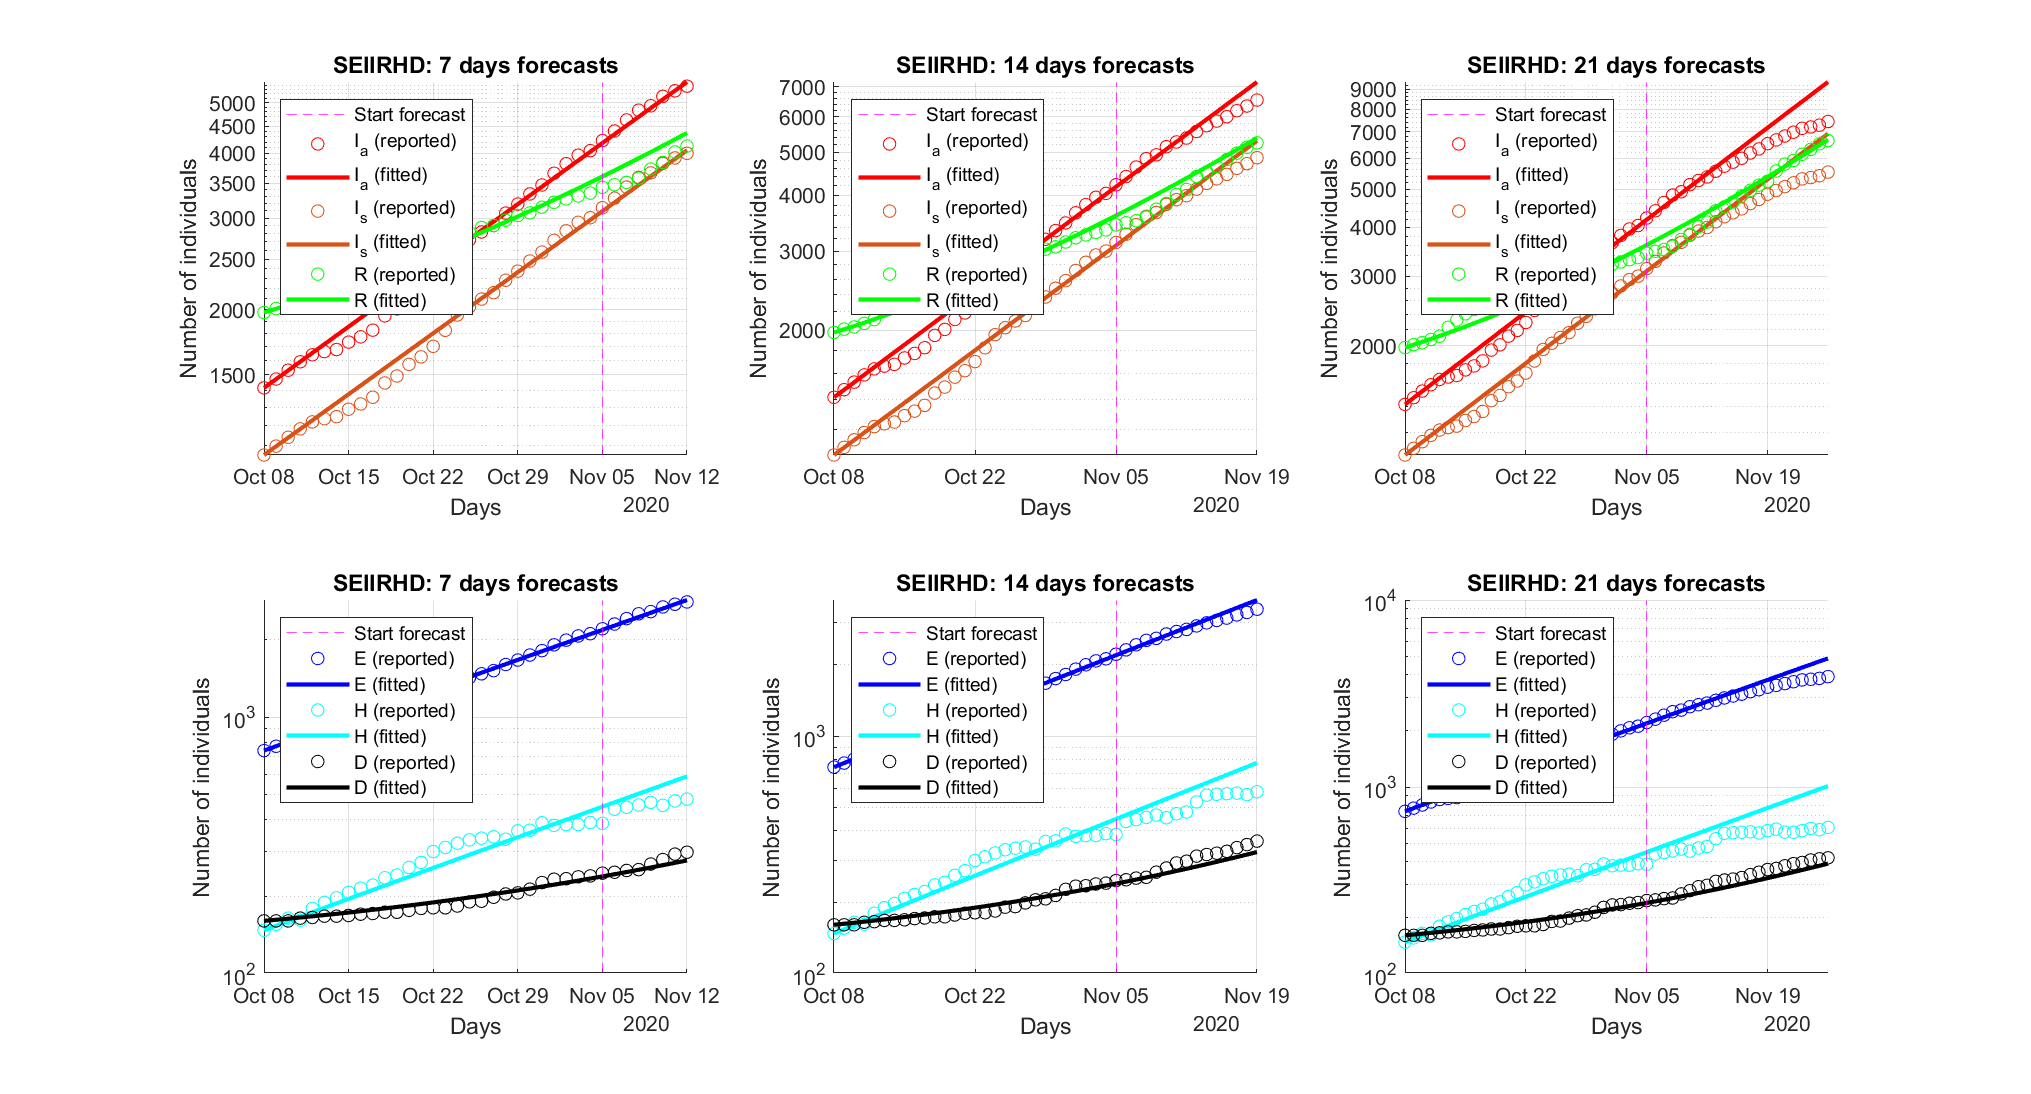
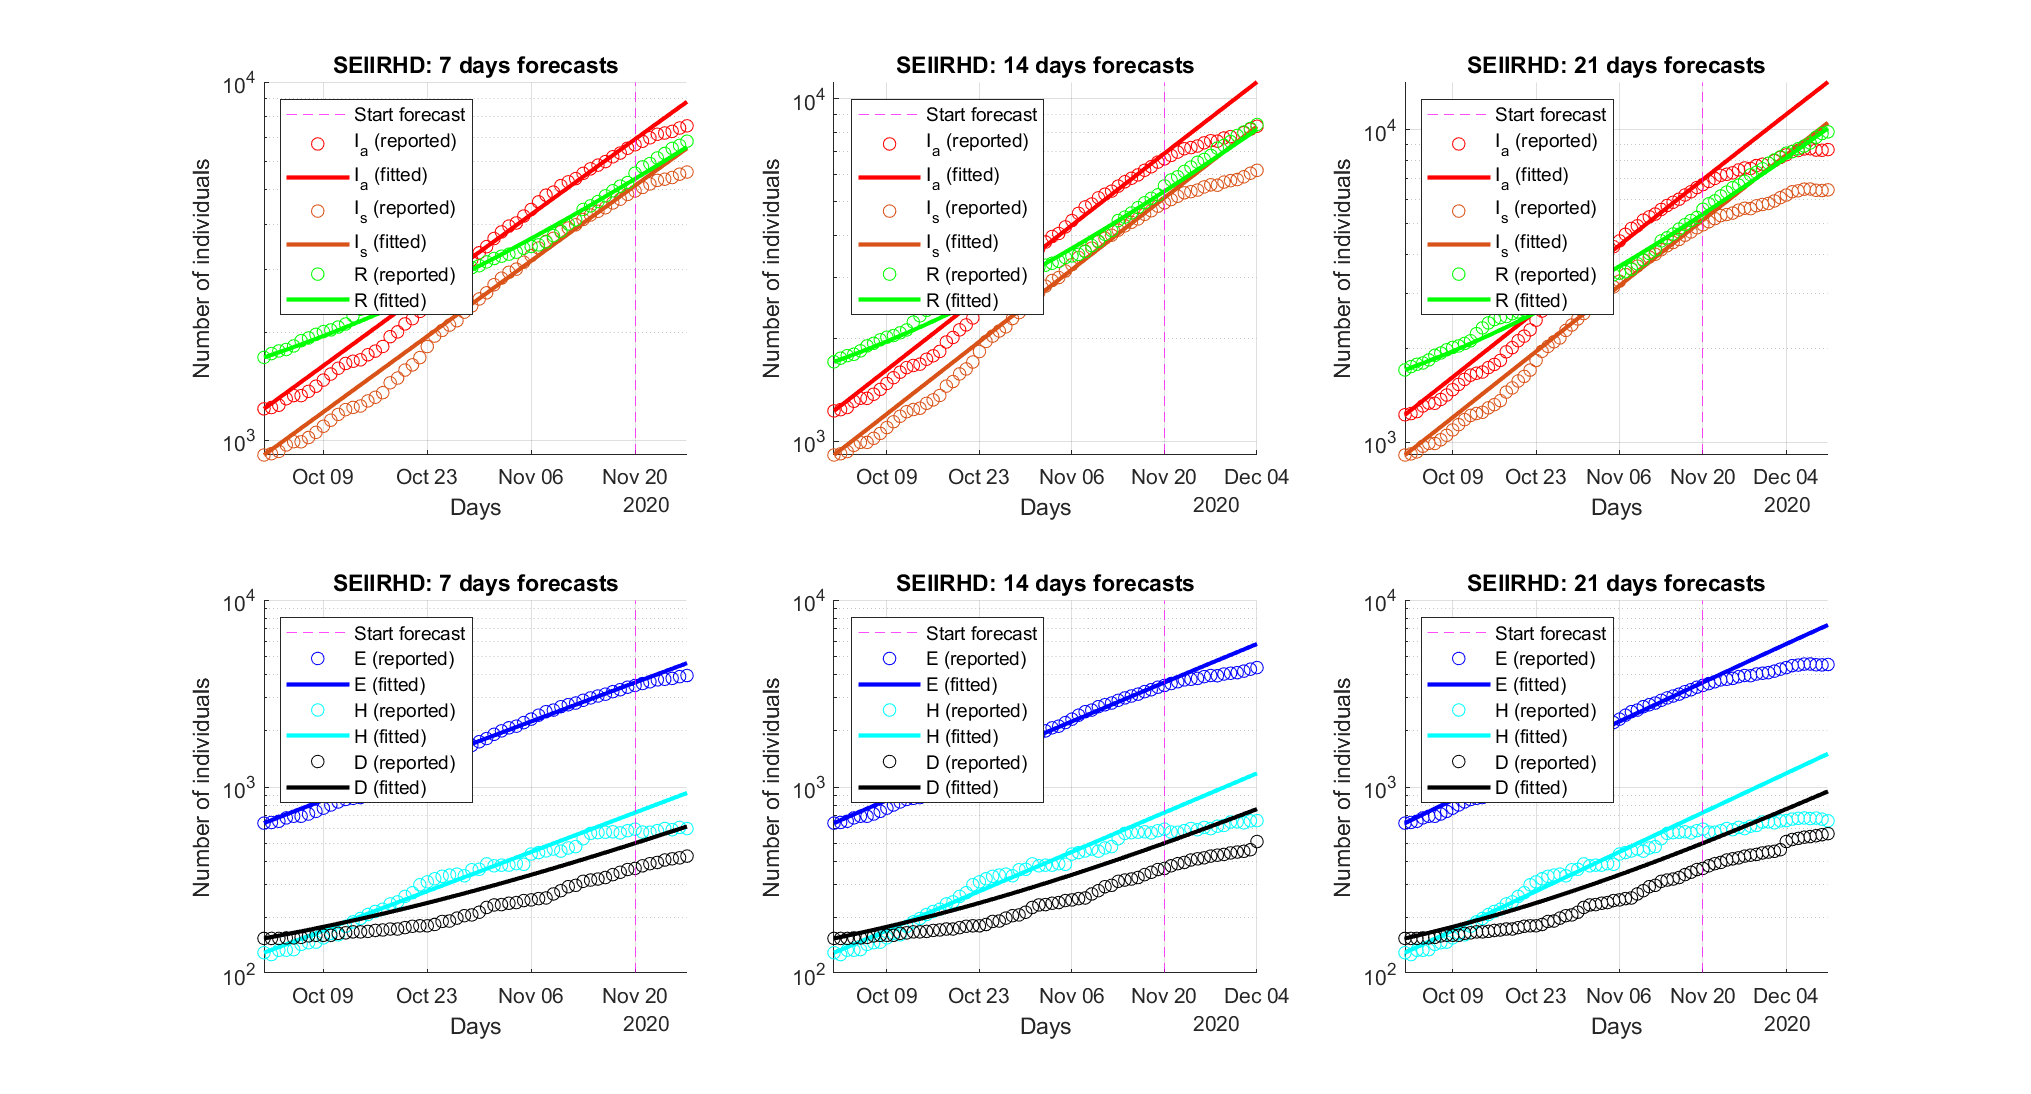
Added constraint, fix october plots

diff --git a/experiments/ITAOctober.m b/experiments/ITAOctober.m
@@ -19,8 +19,8 @@ addpath('./models/SEIIRHD');
 sizes = size(dates);
 size_data = sizes(2);
 N = 60.*10^6;
-t0 = find(dates=="08-Oct-2020"); 
-tf = find(dates=="05-Nov-2021"); 
+t0 = find(dates=="01-Oct-2020"); 
+tf = find(dates=="20-Nov-2020"); 
 %% PLOT OVERVIEW DATA
 % da rifare prima della consegna
 plot_data(data, dates, N, 1, size_data, "./results/overview/OverviewPlot.png");

diff --git a/experiments/SardegnaOctober.m b/experiments/SardegnaOctober.m
@@ -20,8 +20,8 @@ addpath('./models/SEIIRHD');
 sizes = size(dates);
 size_data = sizes(2);
 N = 1611621;
-t0 = find(dates=="08-Oct-2020"); 
-tf = find(dates=="05-Nov-2020"); 
+t0 = find(dates=="01-Oct-2020"); 
+tf = find(dates=="20-Nov-2020");
 %% PLOT DATA
 plot_data(data, dates(t0:tf), N, t0, tf, "./results/october/Sardegna/octoberPlot.png");
 %% FITTING SIR MODEL 

diff --git a/experiments/MoliseOctober.m b/experiments/MoliseOctober.m
@@ -20,8 +20,8 @@ addpath('./models/SEIIRHD');
 sizes = size(dates);
 size_data = sizes(2);
 N = 300516;
-t0 = find(dates=="08-Oct-2020"); 
-tf = find(dates=="05-Nov-2020");  
+t0 = find(dates=="01-Oct-2020"); 
+tf = find(dates=="20-Nov-2020");
 %% PLOT DATA
 plot_data(data, dates(t0:tf), N, t0, tf, "./results/october/Molise/octoberPlot.png");
 %% FITTING SIR MODEL 

diff --git a/models/SEIIRHD/fit_SEIIRHD.m b/models/SEIIRHD/fit_SEIIRHD.m
@@ -20,6 +20,7 @@ D = X(:, 7);
 t_vector = t0:1:tf;
 
 data = [E(t0:1:tf); I_a(t0:1:tf); I_s(t0:1:tf); H(t0:1:tf); R(t0:1:tf); D(t0:1:tf)];
-
-p = fminsearch(@(p) err_SEIIRHD(t_vector, data, p, X0),p0);
+lb = zeros(1,7);
+ub = ones(1,7);
+p = fmincon(@(p) err_SEIIRHD(t_vector, data, p, X0),p0, [], [],[], [], lb, ub);
 end

diff --git a/models/SEIIR/fit_SEIIR.m b/models/SEIIR/fit_SEIIR.m
@@ -18,6 +18,7 @@ R = X(:, 5);
 t_vector = t0:1:tf;
 
 data = [E(t0:1:tf); I_a(t0:1:tf); I_s(t0:1:tf); R(t0:1:tf)];
-
-p = fminsearch(@(p) err_SEIIR(t_vector, data, p, X0),p0);
+lb = zeros(1,4);
+ub = ones(1,4);
+p = fmincon(@(p) err_SEIIR(t_vector, data, p, X0),p0, [], [], [], [], lb, ub);
 end

diff --git a/models/SEIR/fit_SEIR.m b/models/SEIR/fit_SEIR.m
@@ -17,6 +17,7 @@ R = X(:, 4);
 t_vector = t0:1:tf;
 
 data = [E(t0:1:tf); I(t0:1:tf); R(t0:1:tf)];
-
-p = fminsearch(@(p) err_SEIR(t_vector, data, p, X0),p0);
+lb = zeros(1,3);
+ub = ones(1,3);
+p = fmincon(@(p) err_SEIR(t_vector, data, p, X0),p0, [], [], [], [], lb, ub);
 end

diff --git a/models/SIR/fit_SIR.m b/models/SIR/fit_SIR.m
@@ -16,6 +16,7 @@ R = X(:, 3);
 t_vector = t0:1:tf;
 
 data = [I(t0:1:tf); R(t0:1:tf)];
-
-p = fminsearch(@(p) err_SIR(t_vector, data, p, X0),p0);
+lb = zeros(1,2);
+ub = ones(1,2);
+p = fmincon(@(p) err_SIR(t_vector, data, p, X0),p0, [], [], [], [], lb, ub);
 end
